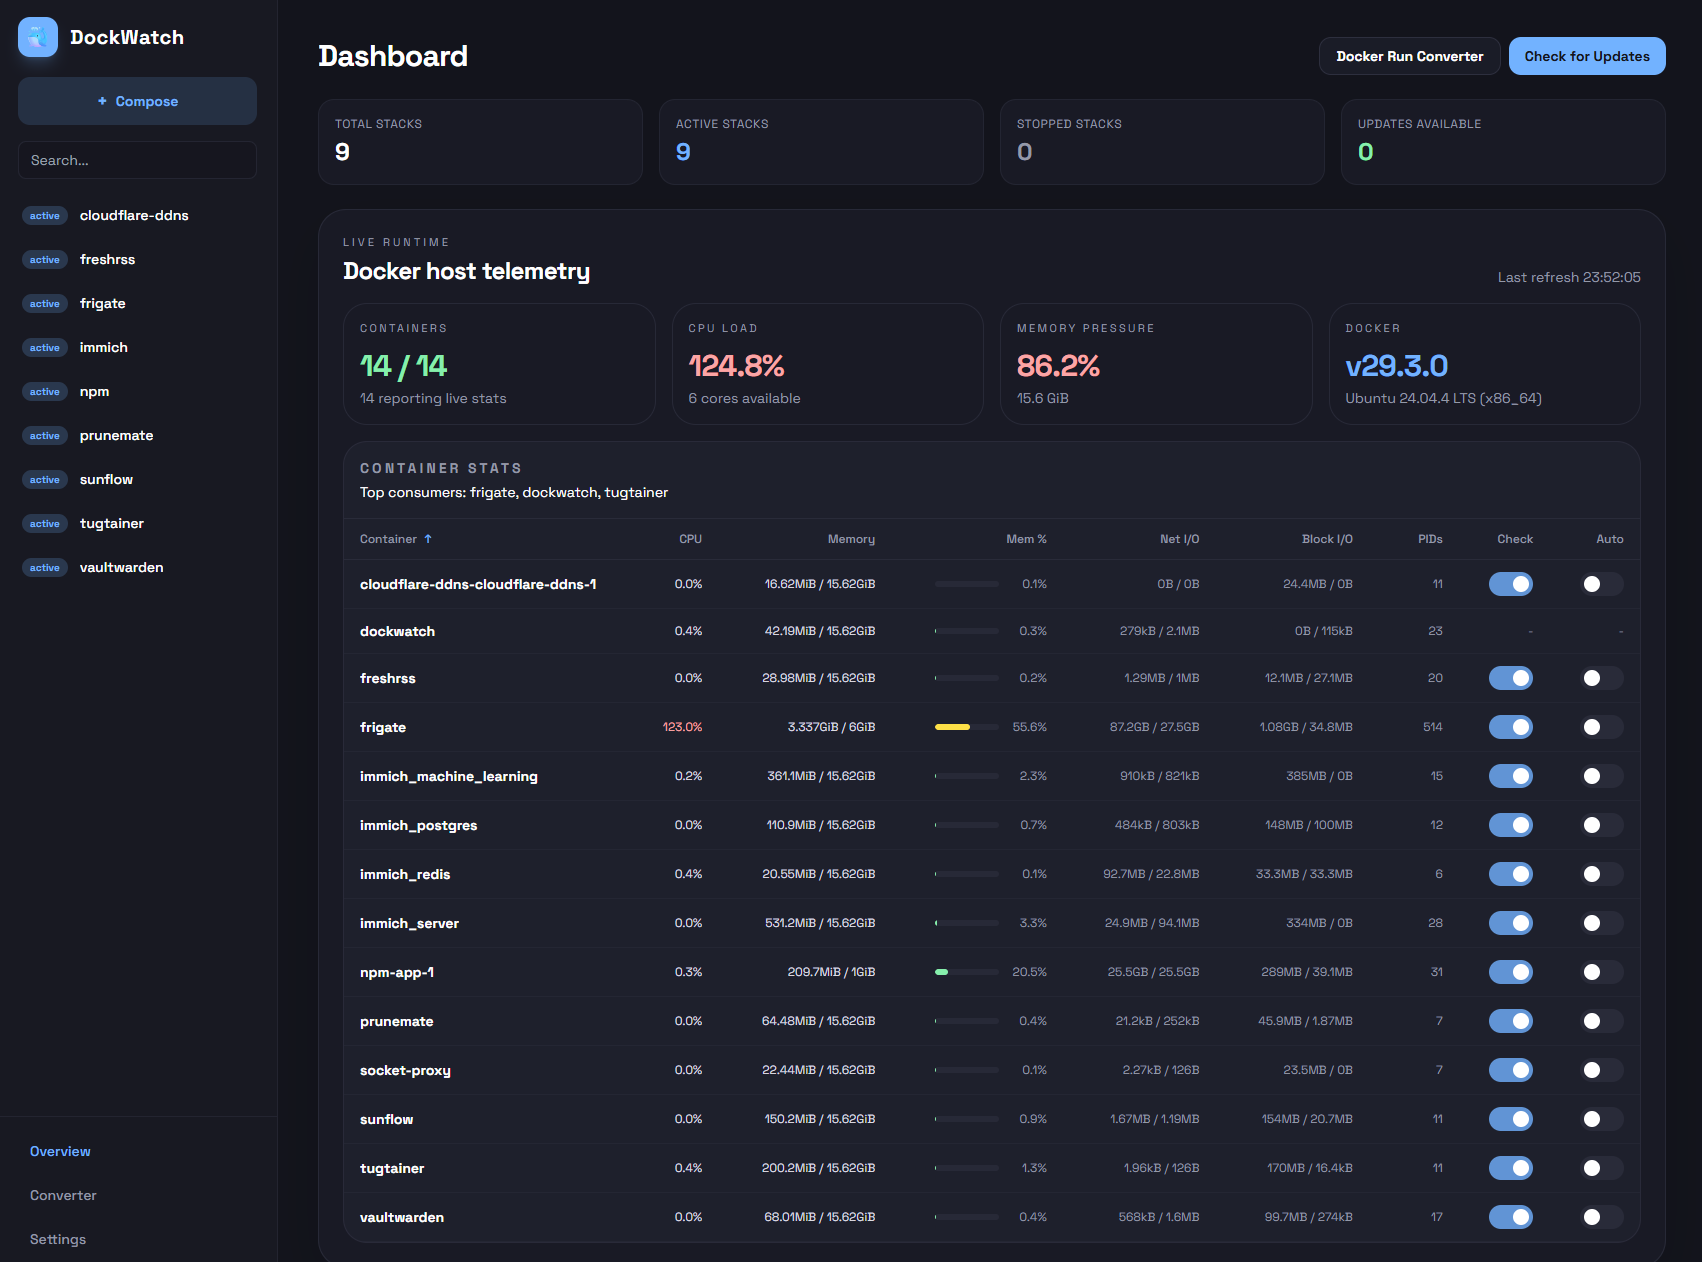
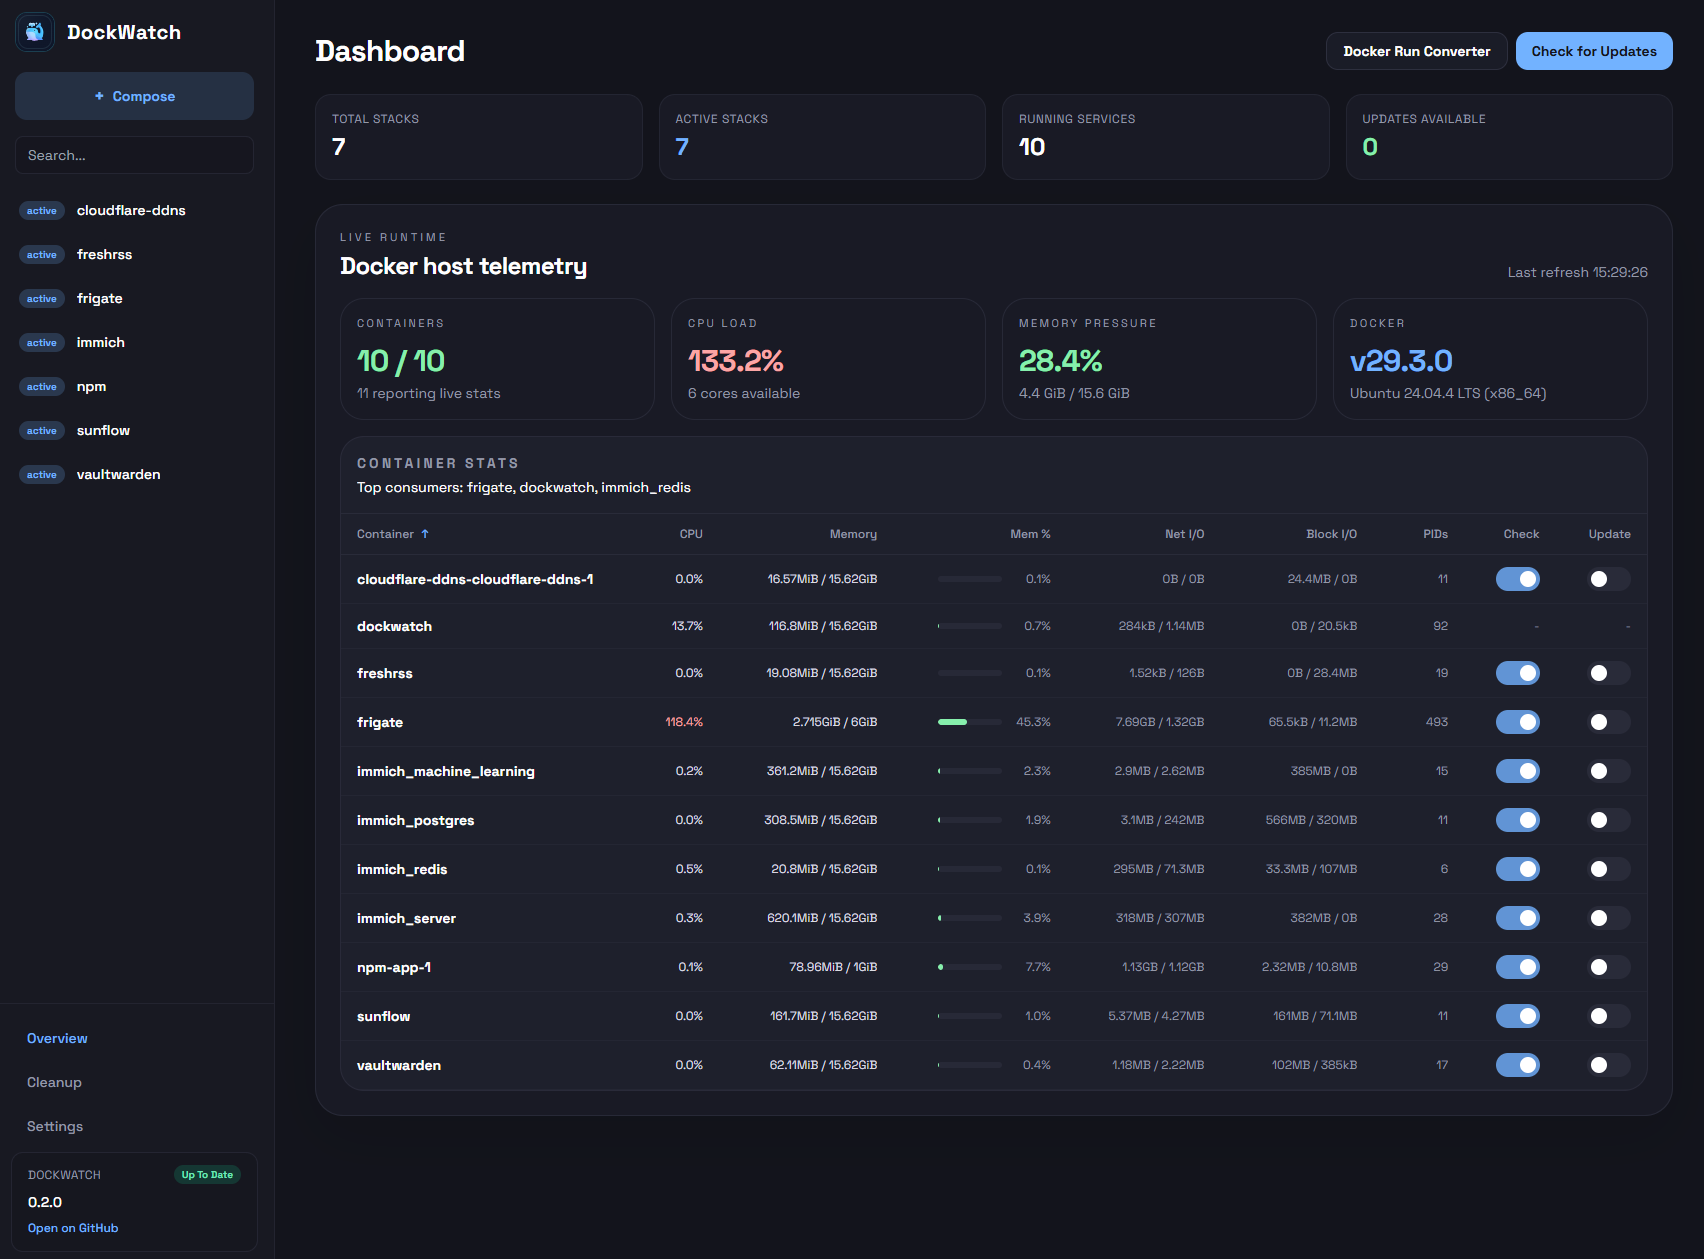
updated screenshots

diff --git a/README.md b/README.md
@@ -39,9 +39,13 @@ Real screenshots with sanitized placeholder data. No private hostnames, secrets,
 
 ![DockWatch Dashboard](docs/screenshots/dashboard.png)
 
-### Stack Editor (Policies + Limits)
+### Stack Editor
 
 ![DockWatch Stack Editor](docs/screenshots/stack_editor.png)
+
+### Prune Assistant
+
+![DockWatch Prune Assistant](docs/screenshots/prune_assistant.png)
 
 ---
 
